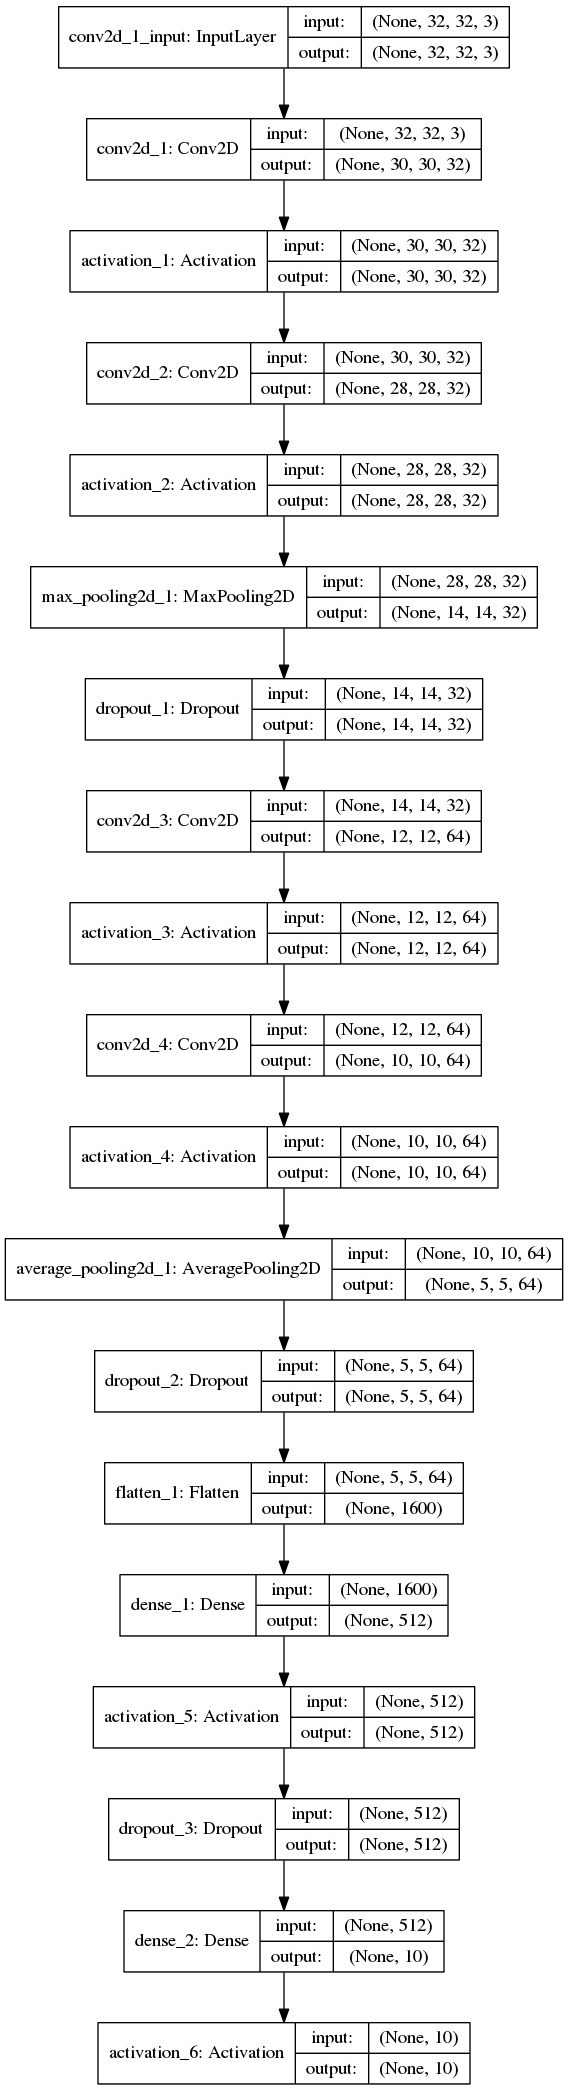
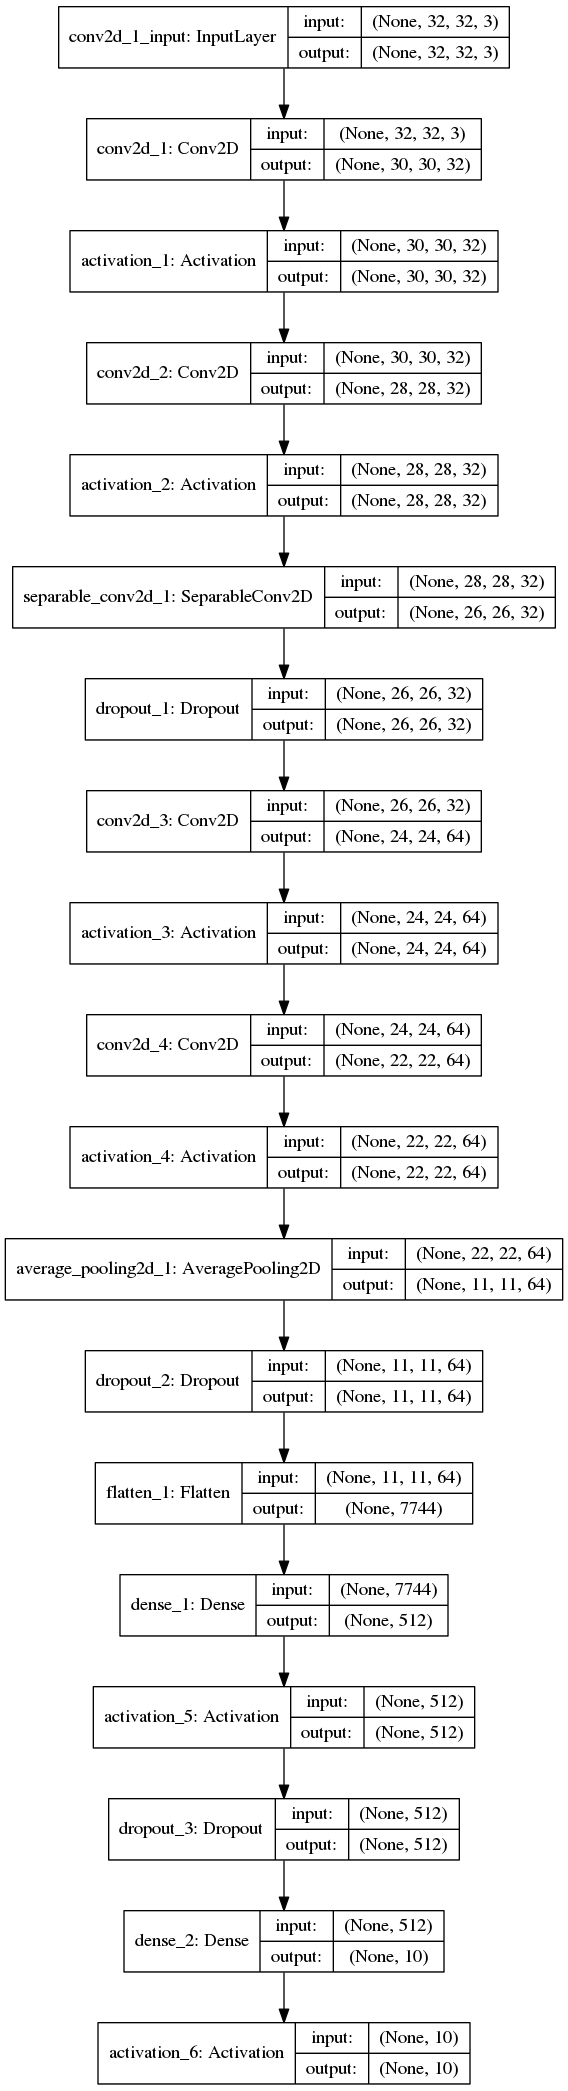
Add files via upload

diff --git a/niunet.py b/niunet.py
@@ -3,7 +3,7 @@
 import sys
 import time
 from keras.datasets import cifar10
-from keras.layers import Convolution2D, MaxPooling2D, AveragePooling2D
+from keras.layers import Convolution2D, MaxPooling2D, AveragePooling2D, SeparableConv2D
 from keras.layers import Dense, Dropout, Activation, Flatten
 from keras.models import Sequential
 from keras.optimizers import SGD
@@ -38,7 +38,8 @@ model.add(Activation('relu'))  # 激活函数：relu, tanh, sigmoid
 
 model.add(Convolution2D(32, 3, 3))  # C2 卷积层
 model.add(Activation('relu'))
-model.add(MaxPooling2D(pool_size=(2, 2)))  # S3 池化
+model.add(SeparableConv2D(32, 3, 3))  # 深度方向上的可分离卷积(对每个输入通道分别卷积) SeparableConv2D
+# model.add(MaxPooling2D(pool_size=(2, 2)))  # S3 池化
 model.add(Dropout(0.25))  #
 
 model.add(Convolution2D(64, 3, 3, border_mode='valid')) # C4
